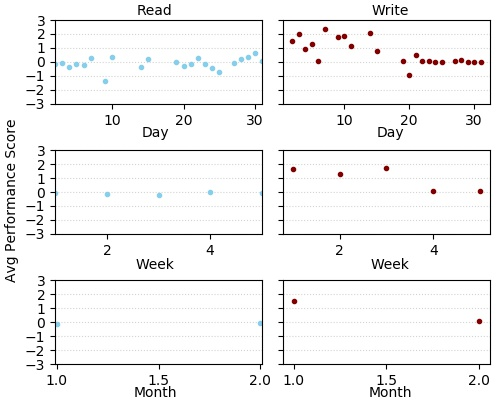
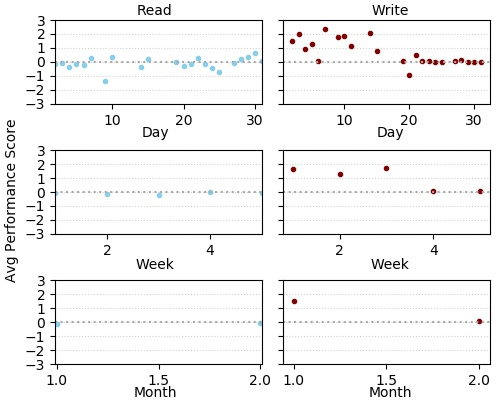
added middle horizontal line

diff --git a/example/simple_user.py b/example/simple_user.py
@@ -253,6 +253,7 @@ for app in top_apps:
         axes[n][0].set_yticks(np.arange(-3,4,1))
         axes[n][0].yaxis.grid(color='lightgrey', linestyle=':')
         axes[n][0].set_axisbelow(True)
+        axes[n][0].axhline(y=0, color='darkgrey', linestyle=':')
         axes[n][0].set_xlabel(" ")
         axes[n][0].margins(0)
         # Now, write
@@ -268,6 +269,7 @@ for app in top_apps:
         axes[n][1].set_ylabel('')
         axes[n][1].yaxis.grid(color='lightgrey', linestyle=':')
         axes[n][1].set_axisbelow(True)
+        axes[n][1].axhline(y=0, color='darkgrey', linestyle=':')
     fig.subplots_adjust(left=0.11, bottom=0.09, right=.98, top=.95, wspace=0.1, hspace=0.55)
     fig.text(0.31, 0.65, x_axes[0], ha='center', va='bottom')
     fig.text(0.31, 0.32, x_axes[1], ha='center', va='bottom')
